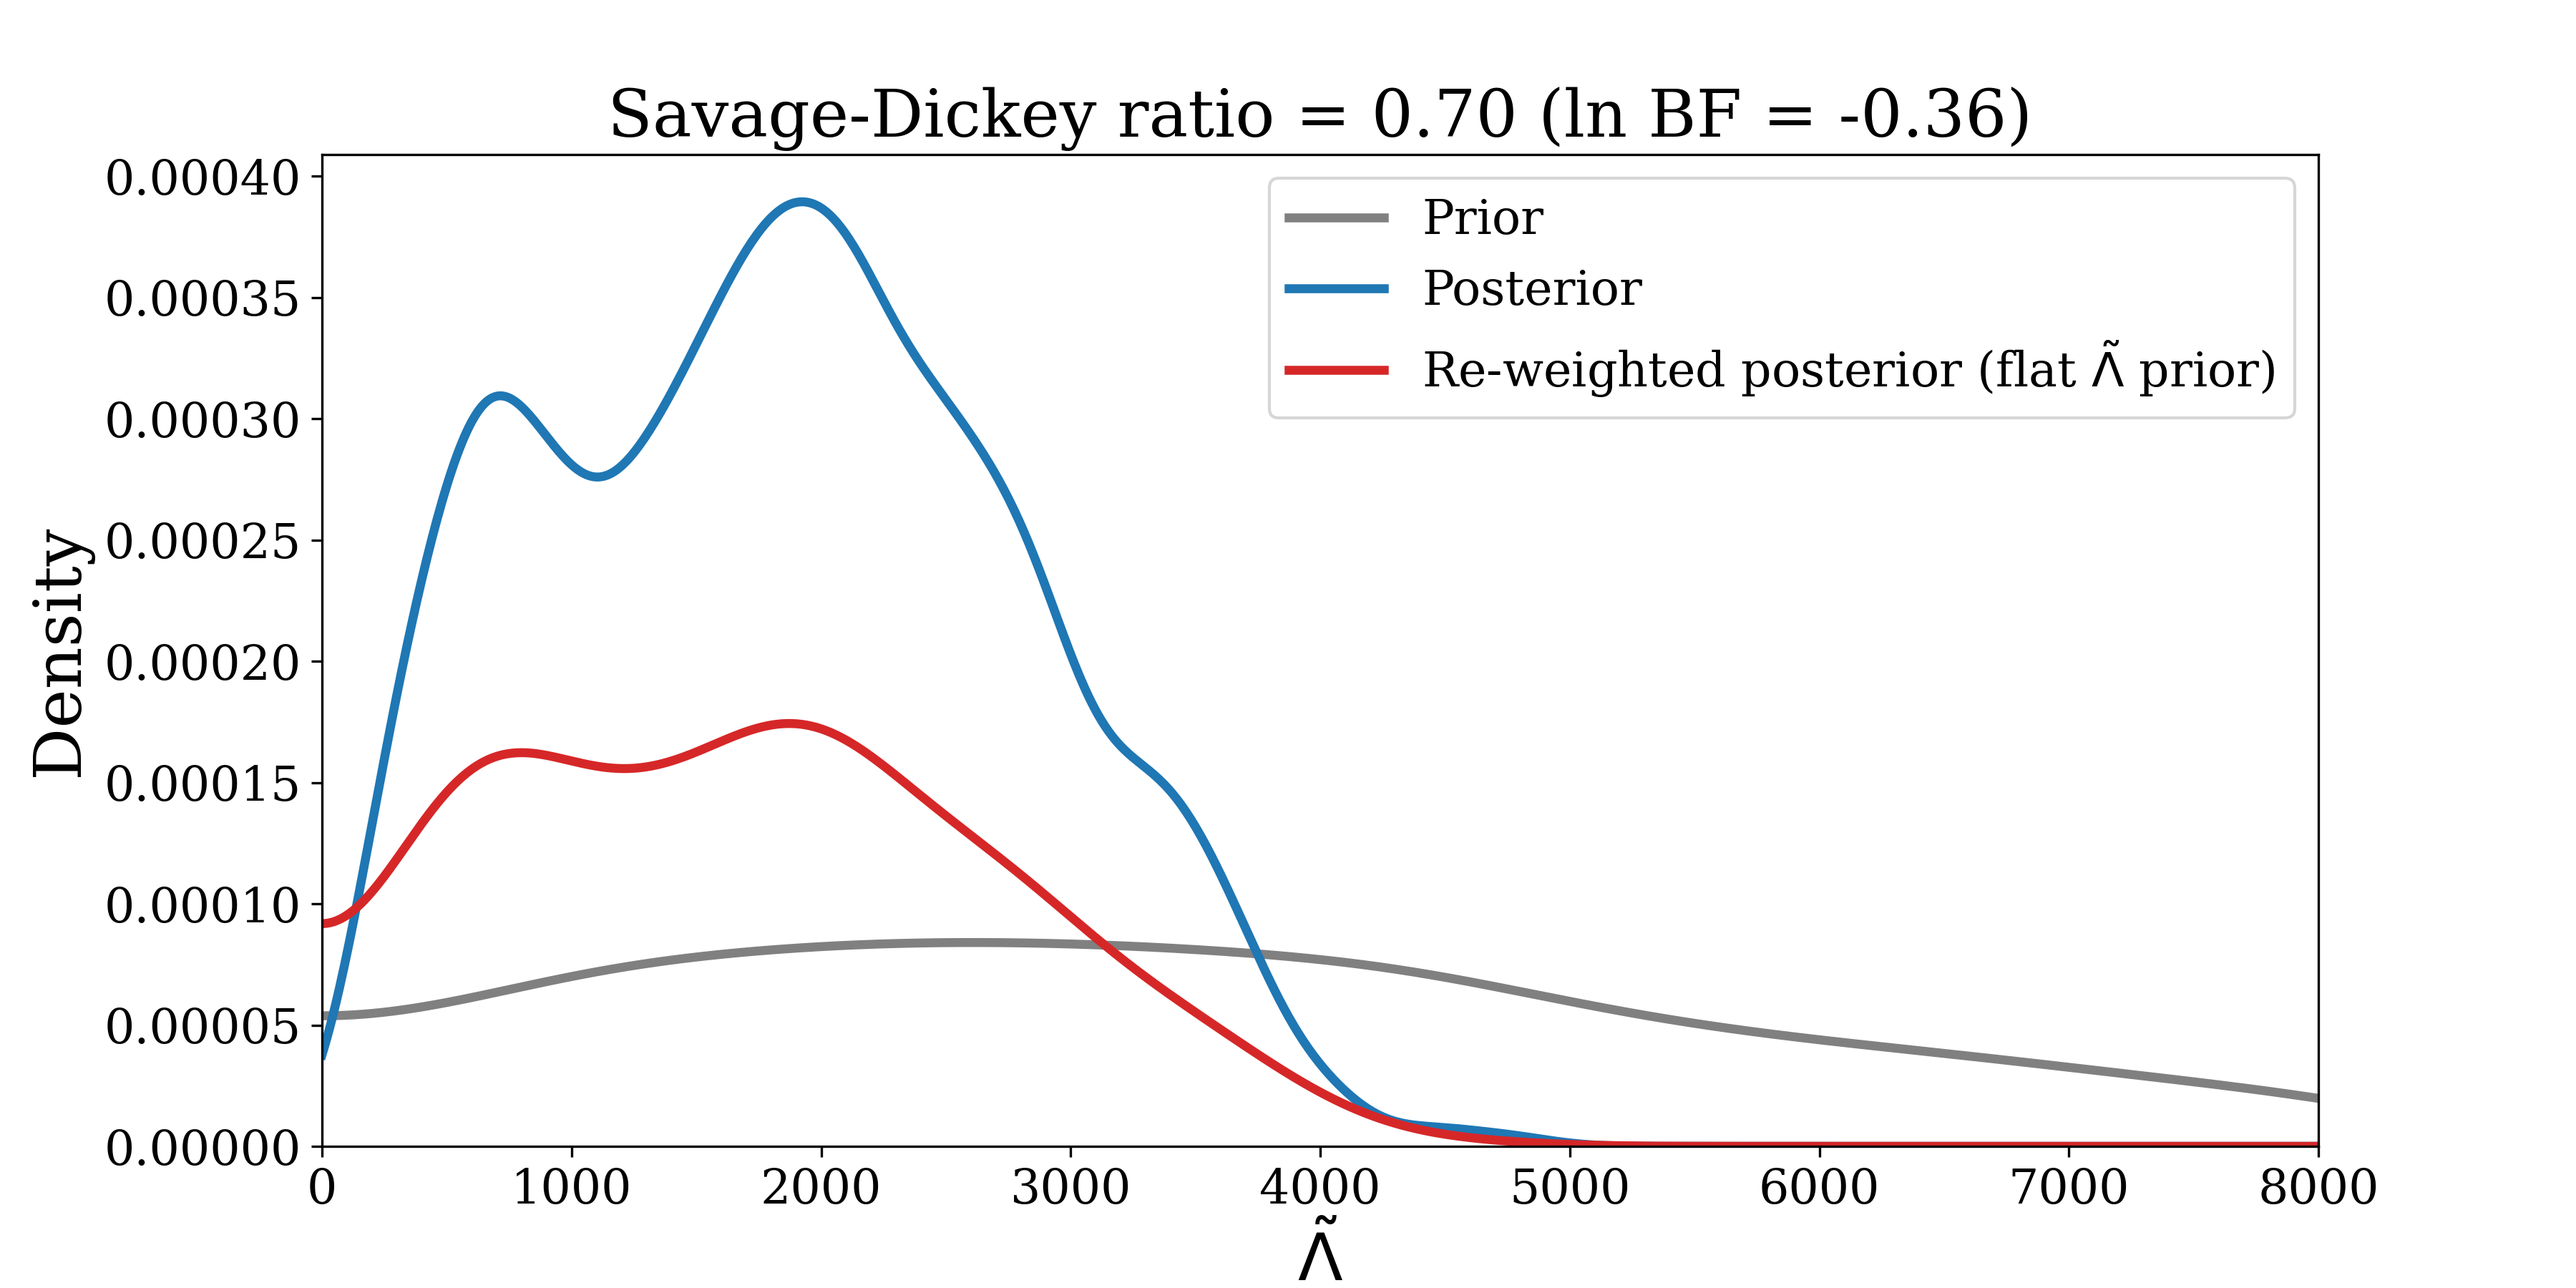
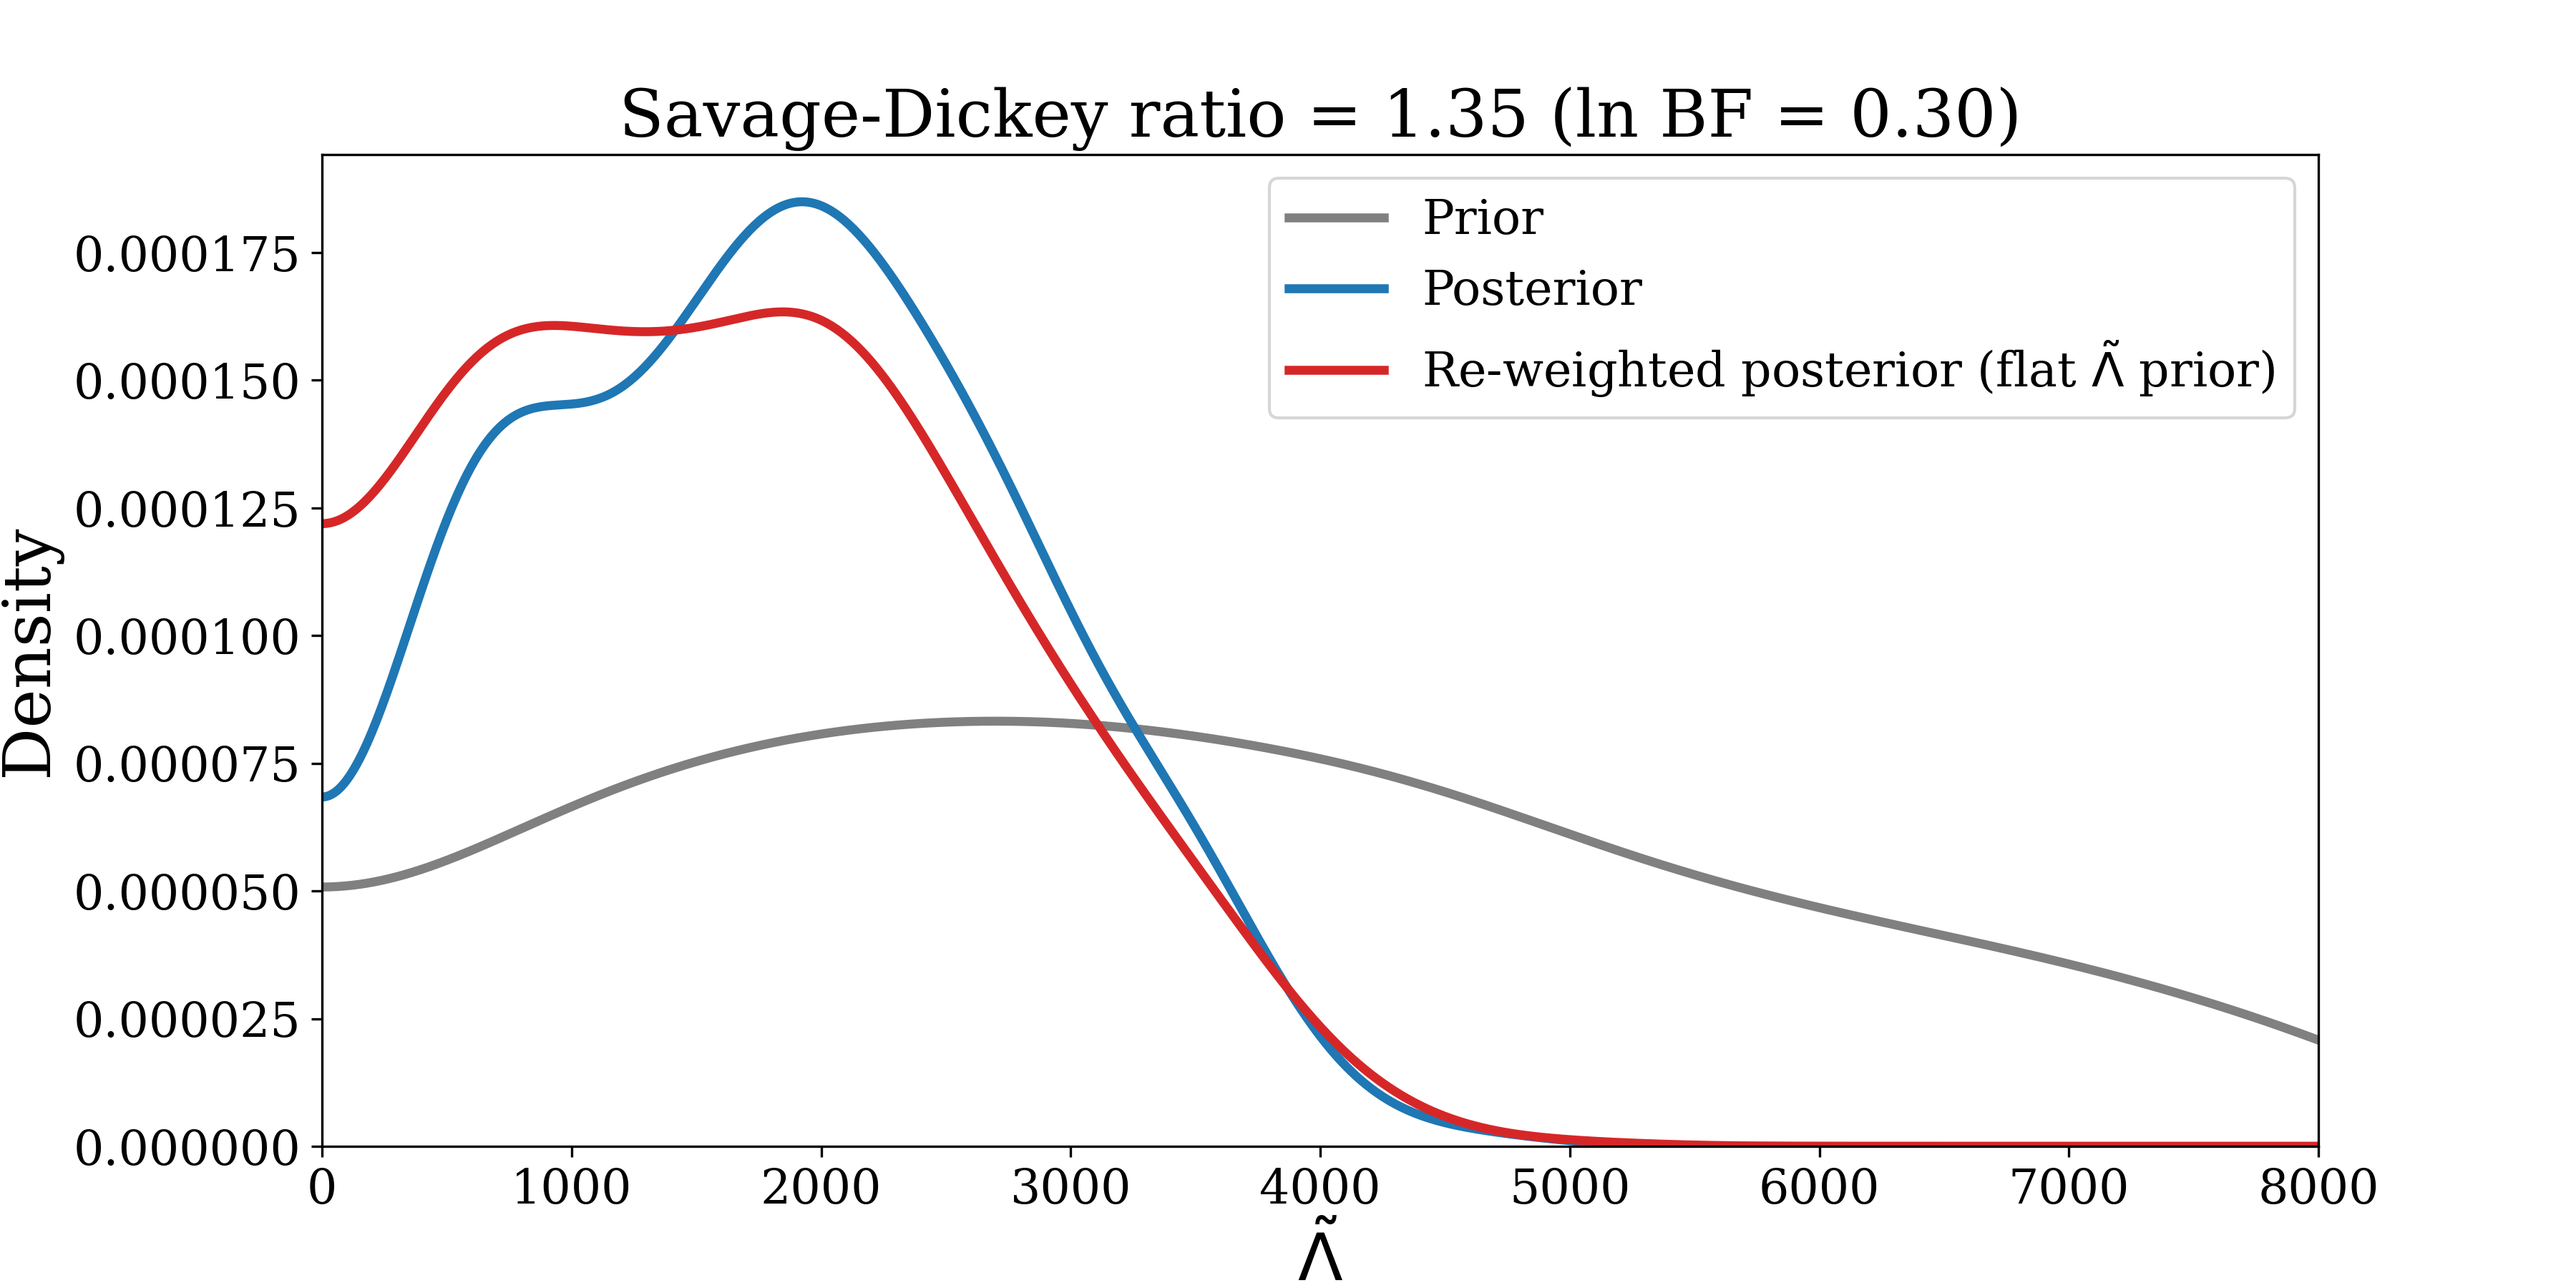
Fixing boundary KDE for the posterior in the reweigh lambda tilde script

diff --git a/figures/reweigh_lambda_tilde.py b/figures/reweigh_lambda_tilde.py
@@ -145,8 +145,8 @@ for run_label, filepath in file_paths.items():
     else:
         samples, lambda_tilde_posterior_samples, luminosity_distance = load_json(filepath)
         
-    # posterior_kde = reflected_kde(lambda_tilde_posterior_samples)
-    posterior_kde = gaussian_kde(lambda_tilde_posterior_samples)
+    posterior_kde = reflected_kde(lambda_tilde_posterior_samples)
+    # posterior_kde = gaussian_kde(lambda_tilde_posterior_samples)
     x = np.linspace(0.0, 10_000.0, 1000)
     posterior_kde_values = posterior_kde(x)
     prior_kde_values = prior_kde(x)
